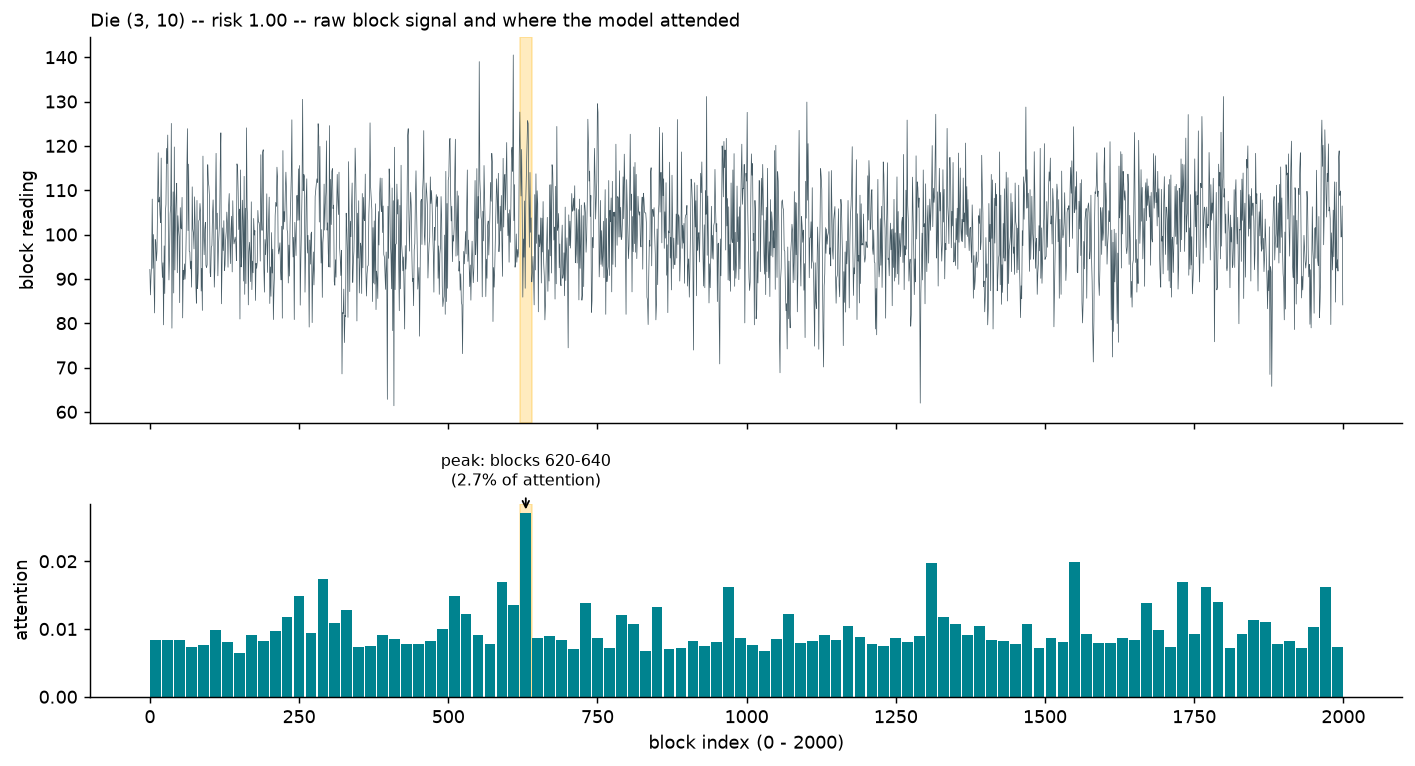
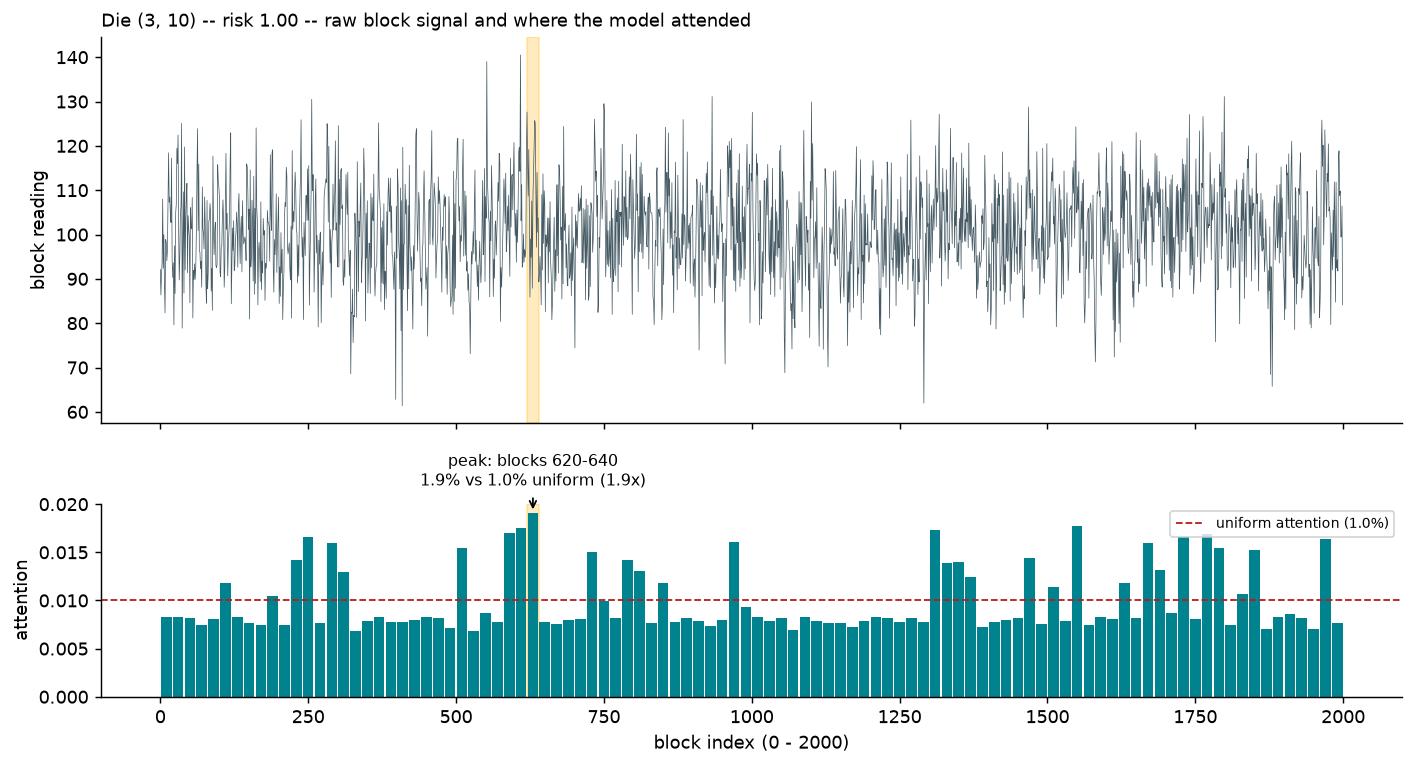
Wave 5: verification gates, submission fix, figure honesty, freeze
Ran the verification suite from the plan end to end. Two real defects surfaced and
were fixed rather than worked around:

1. results/submission.csv was STALE -- 3,725 rows left over from a smoke run instead
   of the 39,351 the full validation split needs. src/report.py generated every
   figure and table but never regenerated the required prediction file, so the
   headline deliverable silently kept whatever ran last. report.py now writes it
   from the shipped model.
2. The wafer risk heatmap painted unscored dies (pre-test failures) white, which on
   an inferno ramp is indistinguishable from maximum risk -- the exact opposite of
   the truth, on the figure the live demo opens with. Unscored dies are now grey and
   the title says so.

Also: baselines are now logged to results.csv (they were computed but never
recorded), and the block attention plot draws its own uniform-attention baseline so
a 1.9% peak against a 1.0% floor cannot be mistaken for sharp concentration.

Gate results (full real dataset, 200 wafers, 210k dies):
  wafer leakage / eligible-only / contract / attribution-sums-to-1  PASS
  all-pass logged at 0.9577 accuracy and 0.0000 F1                  PASS
  no model left at threshold 0.5                                    PASS
  submission 39,351 rows, exact columns, old_label==1 forced to 1   PASS
  10 figures + 6 result documents present                           PASS
  reproducibility: two runs bit-identical (AUC-PR 0.5859039565)     PASS
[…]

Changed region(s): [[0.0, 0.0, 0.9646, 0.5405], [0.0311, 0.5705, 0.9958, 0.9909], [0.9335, 0.9008, 0.9646, 0.9608]]

diff --git a/src/report.py b/src/report.py
@@ -20,12 +20,36 @@ from . import baselines, economics, figures
 from .calibrate import (bootstrap_interval, calibration_report, coverage,
                         isotonic_calibrator, venn_abers)
 from .explain import enrich_with_root_cause, explain_die, make_explainer, shap_values_for
-from .io_data import load_all
-from .metrics import compute_metrics, confusion_table, markdown_table
+from .io_data import load_all, load_split
+from .metrics import compute_metrics, confusion_table, log_run, markdown_table
 from .model_a import family_of
 from .model_b import compare_block_encoders
 
 OUT = Path("results")
+
+
+def write_submission(model, dataset: str, threshold: float) -> Path:
+    """
+    The hackathon's required prediction file.
+
+    Format per the kit README: one row per die INCLUDING pre-test failures, which are
+    forced to 1 -- they trivially remain failed and are not ours to predict.
+    """
+    val = load_split(dataset, "validation")
+    p = model.predict_proba(val)
+    pred = (p >= threshold).astype(int)
+    pred[val.dies["old_label"].to_numpy() == 1] = 1
+
+    out = pd.DataFrame({
+        "wafer_id": val.dies["wafer_id"].astype(str),
+        "die_row": val.dies["die_row"].astype(int),
+        "die_col": val.dies["die_col"].astype(int),
+        "predicted_label": pred.astype(int),
+    })
+    path = OUT / "submission.csv"
+    out.to_csv(path, index=False)
+    print(f"  wrote {path}  ({len(out):,} rows, {int(pred.sum()):,} predicted fails)")
+    return path
 
 
 def main() -> None:
@@ -68,6 +92,8 @@ def main() -> None:
         base_rows.append({"model": name, **{k: m[k] for k in
                           ("auc_pr", "f1", "recall", "precision", "accuracy")}})
         curves[name] = (y_te, p)
+        log_run(wave=3, model=f"baseline/{name}", features_version="n/a", metrics=m,
+                n_train=0, n_test=len(y_te), notes="incumbent baseline")
         print(f"    {name:16s} AUC-PR={m['auc_pr']:.4f}")
 
     m_a = None
@@ -267,6 +293,11 @@ Head-to-head at each method's own cost-optimal threshold (cost ratio 100):
 {confusion_table(y_te, (p_best >= thr_best).astype(int))}
 """
     (OUT / "comparison.md").write_text(doc, encoding="utf-8")
+
+    # The required prediction file, regenerated from the SHIPPED model. Without this the
+    # deliverable silently keeps whatever an earlier run left behind -- which is exactly
+    # what our verification gate caught.
+    write_submission(pooling, args.dataset, thr_best)
 
     with (OUT / f"preds_{args.dataset}.pkl").open("wb") as fh:
         pickle.dump({"preds": preds,

diff --git a/src/figures.py b/src/figures.py
@@ -62,10 +62,14 @@ def wafer_heatmap(preds: list, dies: pd.DataFrame, wafer_id: str,
 
     if len(pdf):
         risk = _grid_from(pdf, "p_fail", shape)
-        im = axes[1].imshow(risk, cmap=CMAP_RISK, vmin=0, vmax=max(0.2, np.nanmax(risk)),
+        # Dies we do not score (pre-test failures, and empty grid cells) are NaN. Left
+        # alone matplotlib paints them white, which on an `inferno` ramp is exactly what
+        # maximum risk looks like -- the opposite of the truth, on the demo's key figure.
+        cmap_risk = matplotlib.colormaps[CMAP_RISK].with_extremes(bad="#c8c8c8")
+        im = axes[1].imshow(risk, cmap=cmap_risk, vmin=0, vmax=max(0.2, np.nanmax(risk)),
                             interpolation="nearest")
         fig.colorbar(im, ax=axes[1], fraction=0.046)
-        axes[1].set_title("Predicted risk\n(eligible dies only)")
+        axes[1].set_title("Predicted risk\n(grey = not scored: pre-test fail or no die)")
 
         # Panel 3 -- truth, with the same colour semantics as panel 1 plus new fails.
         post = pre.copy()
@@ -171,11 +175,20 @@ def block_attention_profile(attention: np.ndarray, blocks_row: np.ndarray,
     lo, hi = top * chunk, (top + 1) * chunk
     for ax in axes:
         ax.axvspan(lo, hi, color="#ffb300", alpha=0.25, zorder=0)
-    axes[1].annotate(f"peak: blocks {lo}-{hi}\n({attention[top]:.1%} of attention)",
-                     xy=(centres[top], attention[top]),
-                     xytext=(centres[top], attention[top] * 1.15),
-                     fontsize=9, ha="center",
-                     arrowprops=dict(arrowstyle="->", lw=1))
+    # State the uniform baseline explicitly. Attention plots invite the reader to see
+    # concentration that is not there; 1.9% against a 1.0% uniform floor is a mild
+    # preference, not a smoking gun, and the figure should say so itself.
+    uniform = 1.0 / n_chunks
+    axes[1].axhline(uniform, ls="--", lw=1, color="#b71c1c",
+                    label=f"uniform attention ({uniform:.1%})")
+    axes[1].legend(fontsize=8, loc="upper right")
+    axes[1].annotate(
+        f"peak: blocks {lo}-{hi}\n{attention[top]:.1%} vs {uniform:.1%} uniform "
+        f"({attention[top] / uniform:.1f}x)",
+        xy=(centres[top], attention[top]),
+        xytext=(centres[top], attention[top] * 1.15),
+        fontsize=9, ha="center",
+        arrowprops=dict(arrowstyle="->", lw=1))
     for ax in axes:
         ax.spines[["top", "right"]].set_visible(False)
     fig.tight_layout()

diff --git a/app/app.py b/app/app.py
@@ -176,6 +176,42 @@ def main() -> None:
             "actionable one."
         )
 
+    # ---------------------------------------------------------------- economics
+    st.divider()
+    st.subheader("Where should the threshold go?")
+    st.caption("The operating point is a business decision, not a statistical one. "
+               "A false accept becomes a field failure and an RMA; a false reject is pure "
+               "yield loss. F1 implicitly assumes those cost the same — they never do.")
+
+    scored = pdf_all[pdf_all["y_true"] >= 0]
+    if len(scored):
+        y = scored["y_true"].to_numpy()
+        p = scored["p_fail"].to_numpy()
+
+        ratio = st.slider(
+            "Cost of one field failure, in units of one die",
+            min_value=5, max_value=1000, value=100, step=5,
+            help="Automotive and datacentre parts sit in the hundreds or thousands; "
+                 "consumer parts far lower.",
+        )
+        cap = st.slider("Maximum acceptable yield loss (%)", 1, 50, 25, 1)
+
+        from src.economics import optimal_threshold
+        opt = optimal_threshold(y, p, float(ratio), float(cap))
+
+        c = st.columns(4)
+        c[0].metric("Optimal threshold", f"{opt['threshold']:.3f}")
+        c[1].metric("Yield loss", f"{opt['yield_loss_pct']:.1f}%")
+        c[2].metric("Failures caught", f"{opt['recall']:.1%}")
+        c[3].metric("Escapes", f"{opt['escape_rate_pct']:.1f}%")
+
+        st.caption(
+            f"At a cost ratio of {ratio}:1, screening at {opt['threshold']:.3f} catches "
+            f"{opt['recall']:.0%} of true failures for {opt['yield_loss_pct']:.1f}% yield "
+            f"loss — **{opt['savings_pct']:.0f}% cheaper** than shipping everything and "
+            f"absorbing the field failures."
+        )
+
 
 def _to_image(arr: np.ndarray, cmap: str) -> np.ndarray:
     """Render a NaN-aware grid to an RGB array without pulling in a plotting backend."""

diff --git a/README.md b/README.md
@@ -141,6 +141,34 @@ Total **+21.7%**. Two results here went against our going-in expectations: the s
 factory we thought would carry the model made it slightly worse, and the wafer prior we
 added as an afterthought was the largest single win. Both are reported as measured.
 
+### Pooling vs a learned encoder — the architecture lost
+
+We built the gated attention-MIL encoder (the "creative fusion" idea) and then measured it
+against plain statistical pooling on identical splits and features:
+
+| architecture | AUC-PR | F1 |
+|---|---|---|
+| statistical pooling (25 features) | **0.5859** | 0.5491 |
+| gated attention-MIL, late fusion | 0.5483 | 0.5102 |
+
+**Pooling won by 0.038.** We ship pooling and report the finding — the PS asks for
+improvement *or lack thereof*, and that applies to our own architecture too. The MIL branch
+is retained because its attention weights give Model B a block interpretability artifact
+pooling cannot provide (`figures/block_attention.png`), and that figure states its own
+uniform baseline so the concentration is not oversold.
+
+### Deployment-grade extras
+
+- **Calibration.** Isotonic on a held-out calibration split: Brier **0.0576 → 0.0244**,
+  expected calibration error **0.1254 → 0.0027**.
+- **Per-die uncertainty.** We implemented Venn-ABERS first, then measured it and **rejected
+  it**: its width shrinks as O(1/n), so on a 36k-die calibration set it collapses to 0.0013
+  wide and brackets the observed rate in only 10% of risk bands. A bootstrap over the
+  calibration set gives width 0.011 and **90% band coverage**. Both are reported.
+- **Economics.** At an equal ~25% yield-loss budget, WaferLens catches **83%** of true
+  failures (17% escape) against GDBN's **30%** (70% escape). The dashboard exposes the
+  cost ratio as a live slider.
+
 ---
 
 ## Design decisions worth defending

diff --git a/results/comparison.md b/results/comparison.md
@@ -14,7 +14,7 @@ new failures (4.23%).*
 | GDBN (5x5) | 0.0536 | 0.0688 | 0.0696 | 0.0680 | 0.9202 |
 | Model A (die+spatial) | 0.5476 | 0.5214 | 0.4413 | 0.6370 | 0.9657 |
 | Model B (pooling) | 0.5859 | 0.5491 | 0.4029 | 0.8620 | 0.9720 |
-| Model B (attention-MIL) | 0.5401 | 0.5164 | 0.3543 | 0.9514 | 0.9719 |
+| Model B (attention-MIL) | 0.5483 | 0.5102 | 0.3442 | 0.9855 | 0.9720 |
 
 > **Read AUC-PR, not accuracy.** The all-pass row scores
 > 95.8% accuracy while catching zero failures.
@@ -37,9 +37,9 @@ feature columns, so this delta measures the *data*, not two modelling choices.
 | architecture | AUC-PR | F1 |
 |---|---|---|
 | statistical pooling (25 features) | 0.5859 | 0.5491 |
-| gated attention-MIL, late fusion | 0.5401 | 0.5164 |
+| gated attention-MIL, late fusion | 0.5483 | 0.5102 |
 
-**Winner: statistical pooling** (0.0458 AUC-PR).
+**Winner: statistical pooling** (0.0376 AUC-PR).
 We tested a learned encoder against statistical pooling and pooling won. That is a real finding, not a failure -- the PS asks for improvement *or lack thereof*. The MIL branch is retained for its attention weights, which give Model B a block interpretability artifact that pooling cannot provide.
 
 ## Versus the incumbent
